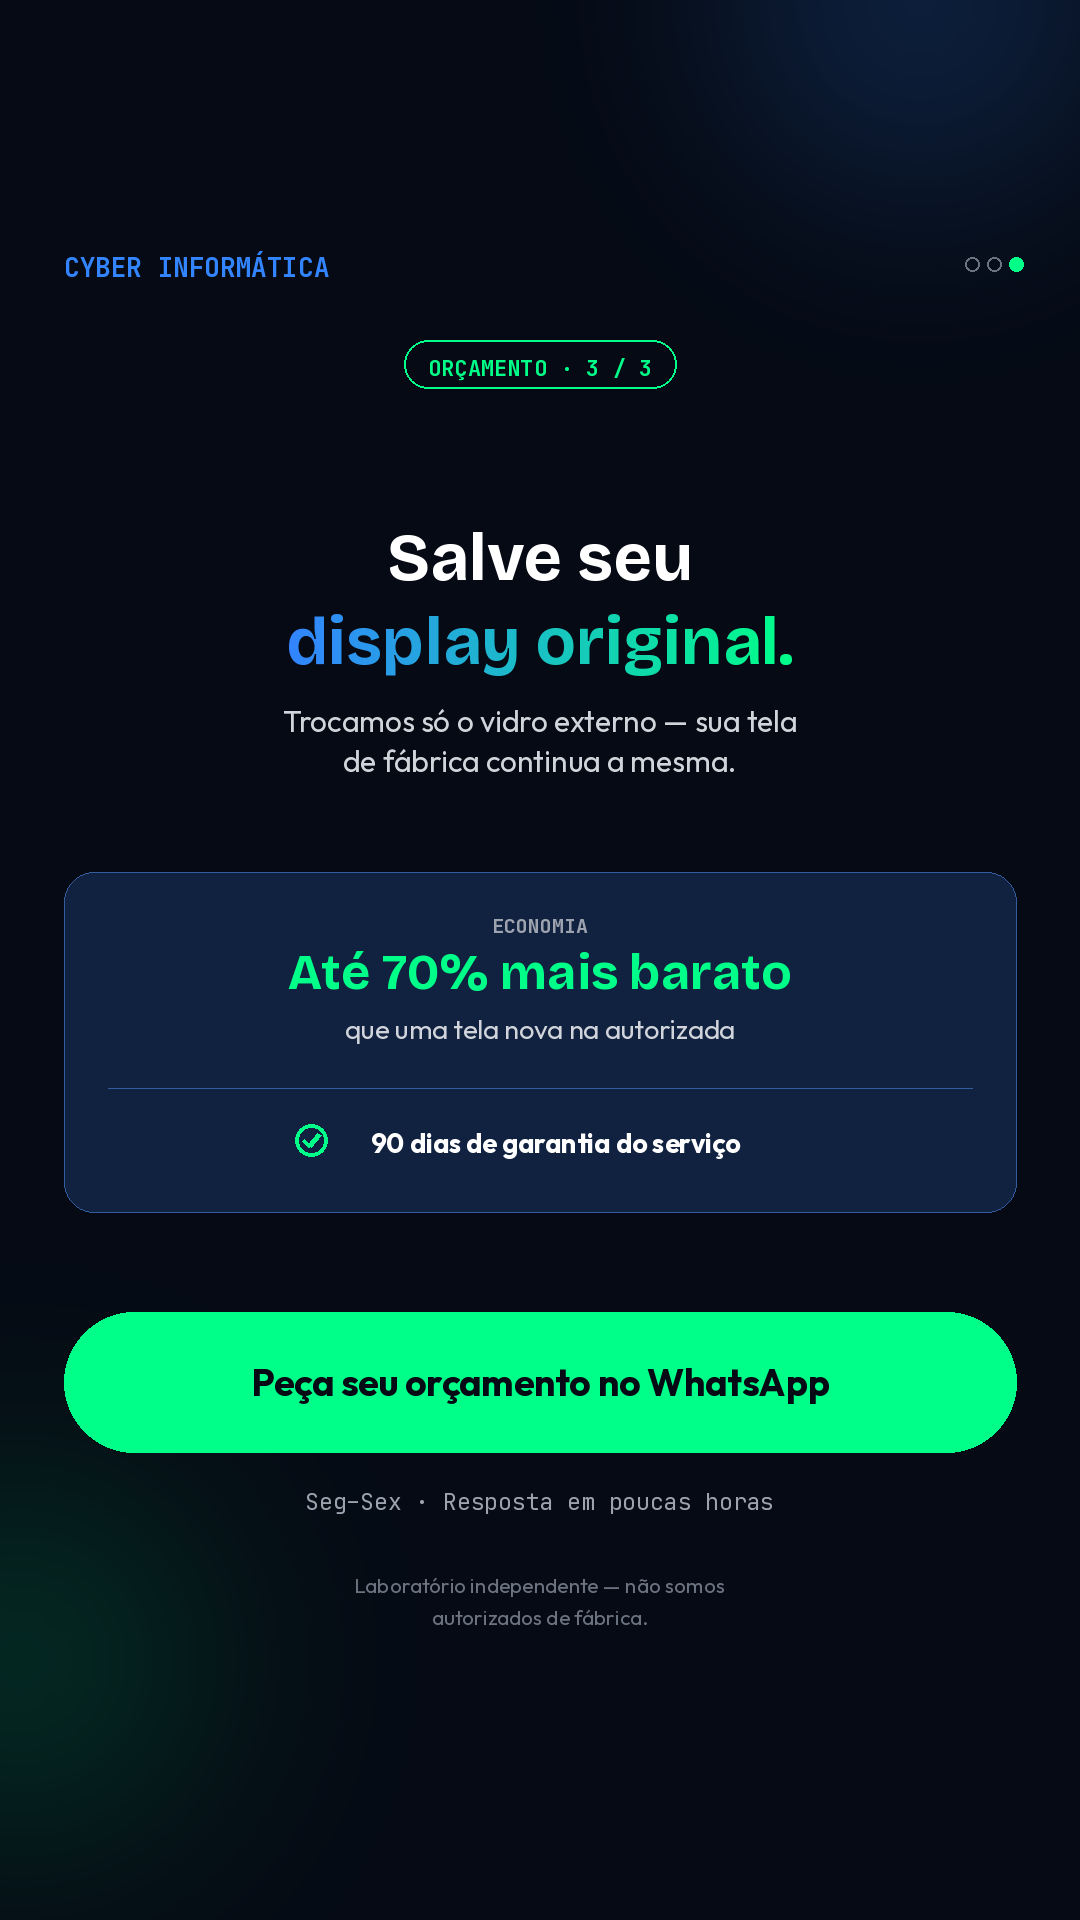
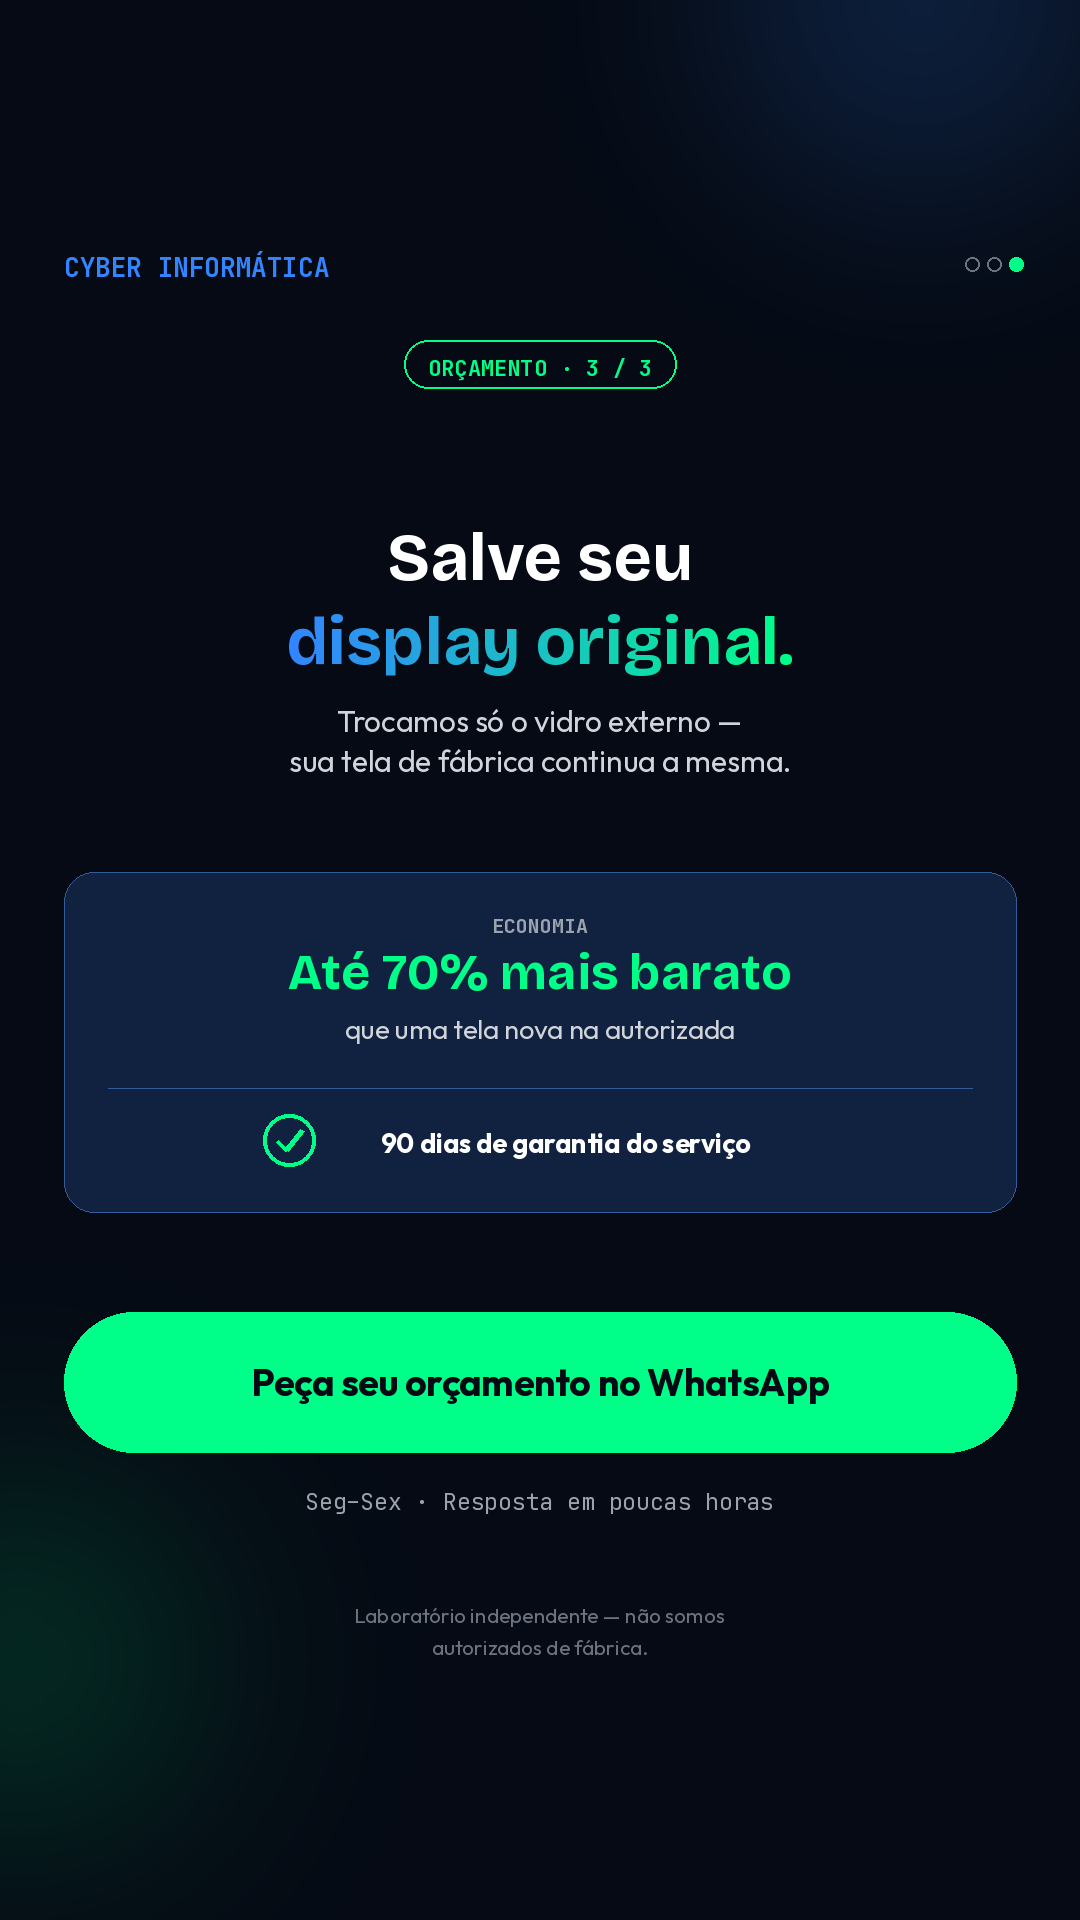
polish(campanha): aplica correções de craft/design do stories set
- Slide 1: escurece o gradiente inferior mais cedo para dar contraste
  suficiente à primeira linha do headline ("Tela trincou,"), que caía
  sobre um reflexo claro da mesa.
- Slide 3: ícone de check da garantia estava desproporcional (raio 16,
  traço fixo de 4px deixava-o "cheio" em vez de contornado como os do
  slide 2) — aumenta para raio 26, alinhando a linguagem de ícones.
- Slide 3: corrige quebra de linha do subtítulo que separava "tela" de
  "de fábrica"; empurra o disclaimer para alinhar o ritmo de margem
  inferior com os slides 1 e 2.
- Padroniza o raio de canto dos cards do slide 2 (32→30) com o card do
  slide 3.

diff --git a/assets/campanha-consumidor/gerar_stories_b2c.py b/assets/campanha-consumidor/gerar_stories_b2c.py
@@ -88,7 +88,7 @@ def make_slide_1():
     img.paste(top_scrim, (0, 0), top_alpha)
 
     bottom_scrim = Image.new("RGB", (W, H), NAVY_950)
-    bottom_alpha = vertical_gradient_alpha((W, H), [(0.0, 0), (0.58, 0), (0.70, 150), (0.84, 235), (1.0, 250)])
+    bottom_alpha = vertical_gradient_alpha((W, H), [(0.0, 0), (0.48, 0), (0.60, 170), (0.76, 235), (1.0, 250)])
     img.paste(bottom_scrim, (0, 0), bottom_alpha)
 
     draw = ImageDraw.Draw(img)
@@ -153,7 +153,7 @@ def make_slide_2():
     icon_r = 30
     line_gap = 46
 
-    rounded_rect(draw, [left_x, col_y, left_x + col_w, col_y + col_h], radius=32,
+    rounded_rect(draw, [left_x, col_y, left_x + col_w, col_y + col_h], radius=30,
                  fill=(30, 14, 14), outline=(120, 40, 40), width=2)
     draw.text((left_x + 36, col_y + 46), "Tela paralela", font=f_col_title, fill=(252, 165, 165), anchor="la")
 
@@ -173,7 +173,7 @@ def make_slide_2():
             draw.text((left_x + 112, ly), line, font=f_item, fill=GRAY_300, anchor="la")
             ly += line_gap
 
-    rounded_rect(draw, [right_x, col_y, right_x + col_w, col_y + col_h], radius=32,
+    rounded_rect(draw, [right_x, col_y, right_x + col_w, col_y + col_h], radius=30,
                  fill=(8, 36, 26), outline=CIRCUIT_GREEN_DARK, width=2)
     draw.text((right_x + 36, col_y + 46), "Display original", font=f_col_title, fill=CIRCUIT_GREEN, anchor="la")
 
@@ -218,9 +218,9 @@ def make_slide_3():
     y2 += 100
 
     f_sub = font(F_BODY_REG, 30)
-    draw_centered(draw, W / 2, y2, "Trocamos só o vidro externo — sua tela", f_sub, GRAY_300)
+    draw_centered(draw, W / 2, y2, "Trocamos só o vidro externo —", f_sub, GRAY_300)
     y2 += 40
-    draw_centered(draw, W / 2, y2, "de fábrica continua a mesma.", f_sub, GRAY_300)
+    draw_centered(draw, W / 2, y2, "sua tela de fábrica continua a mesma.", f_sub, GRAY_300)
     y2 += 130
 
     card_x, card_w = 64, W - 128
@@ -240,8 +240,8 @@ def make_slide_3():
     f_garantia = font(F_BODY_BOLD, 27)
     garantia_txt = "90 dias de garantia do serviço"
     gw = text_w(draw, garantia_txt, f_garantia)
-    icon_r = 16
-    gx0 = W / 2 - gw / 2 - icon_r * 2 - 12
+    icon_r = 26
+    gx0 = W / 2 - gw / 2 - icon_r * 2 - 14
     check_icon(draw, gx0, card_y + 268, icon_r, CIRCUIT_GREEN)
     draw.text((W / 2 - gw / 2 + icon_r, card_y + 254), garantia_txt, font=f_garantia, fill=WHITE, anchor="la")
 
@@ -257,7 +257,7 @@ def make_slide_3():
     draw_centered(draw, W / 2, btn_y + btn_h + 34, "Seg–Sex · Resposta em poucas horas", f_hours, GRAY_400)
 
     f_disc = font(F_BODY_REG, 21)
-    disc_y = btn_y + btn_h + 120
+    disc_y = btn_y + btn_h + 150
     draw_centered(draw, W / 2, disc_y, "Laboratório independente — não somos", f_disc, GRAY_500)
     draw_centered(draw, W / 2, disc_y + 32, "autorizados de fábrica.", f_disc, GRAY_500)
 
